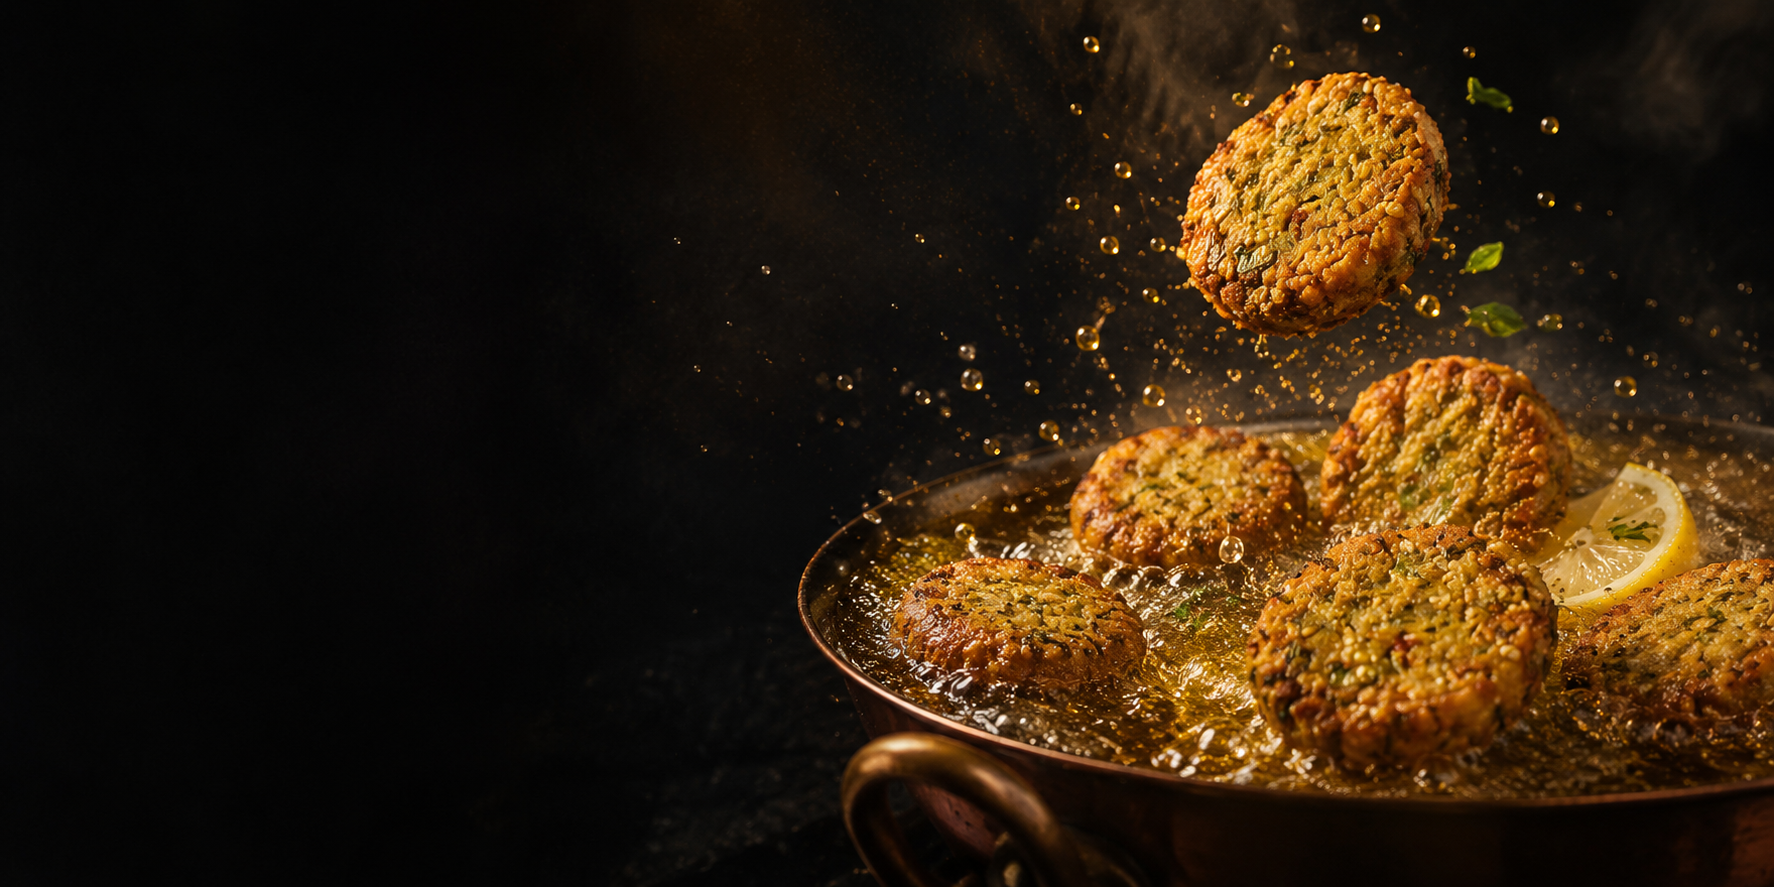
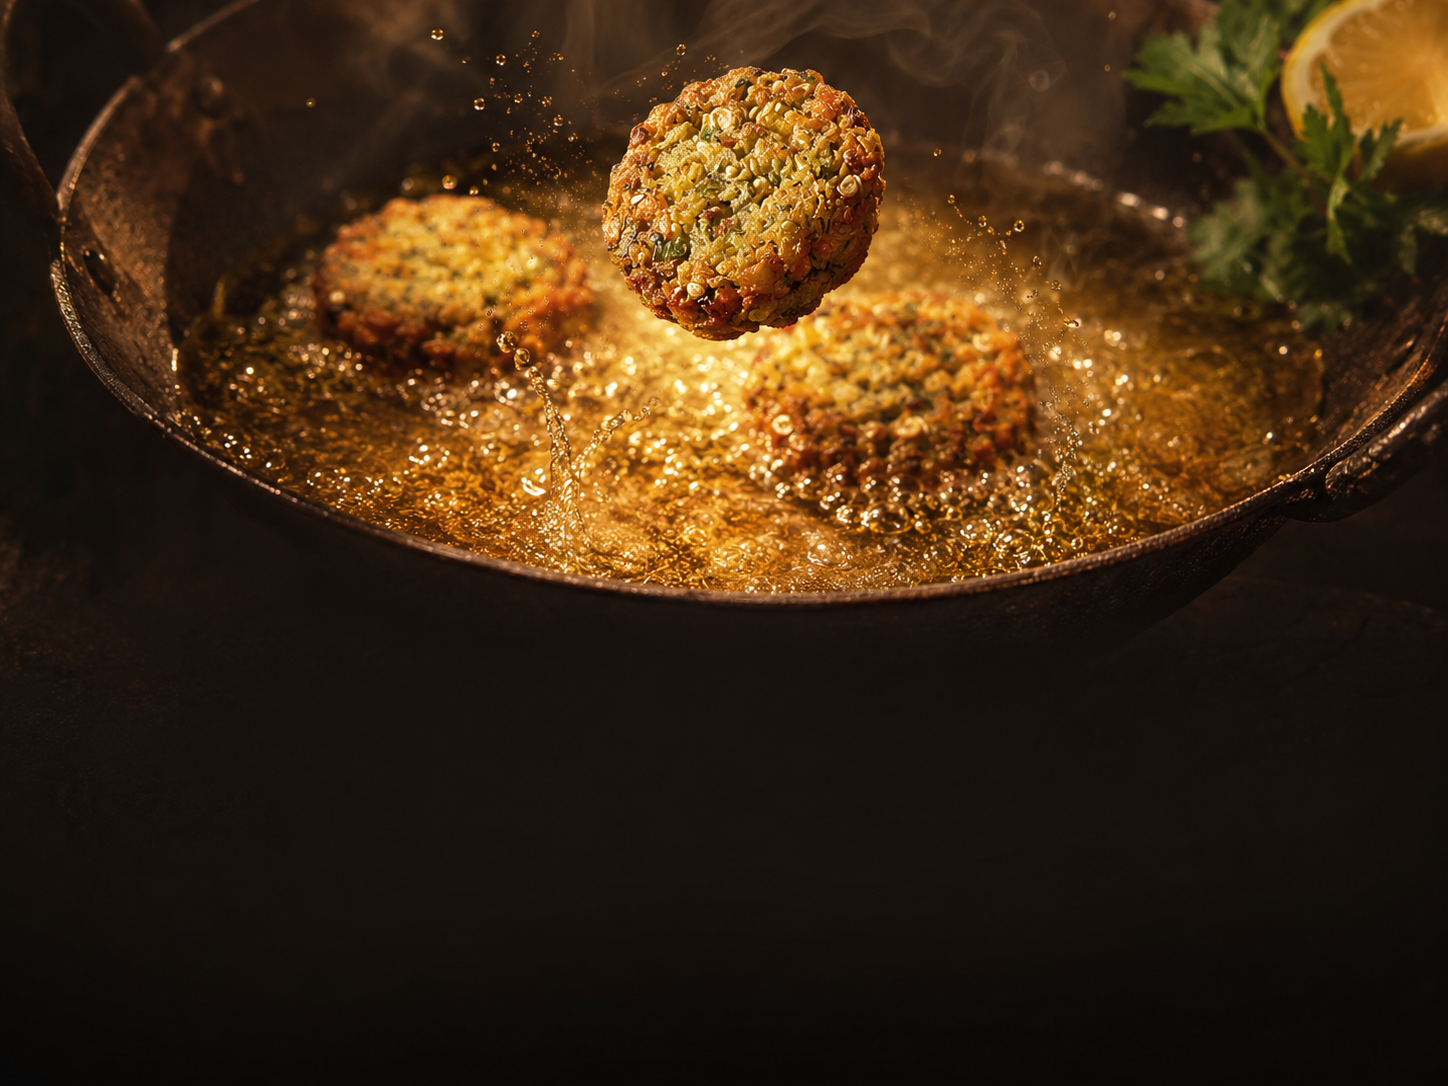
Use revised client images for Hero, Our Story, Portfolio and Why Unifayre
Routed 11 new client-supplied images out of public/images/New images
(spaces and & in folder/filenames - fragile on web) into URL-safe
locations and rewired the components:

  Hero  -> /images/veg/heroes/hero-{1,2,3}.png (3 slides, was 5)
  Story -> /images/veg/story/story-{1,2}.png
  Why   -> /images/veg/why/why-{1,2,3}.png  (3 rotations, was 2)

Portfolio: BASE PASTES & GRAVIES.png, FROZEN-TO-FRY SNACKS.png and
RETORT RICE.png overwrote the existing snacks-/gravies-/rice-portfolio
files at the same paths, so no code change for those three.
flatbreads-portfolio.png is unchanged - awaiting the revised flatbreads
banner from the client.

diff --git a/src/app/vegetarian/page.tsx b/src/app/vegetarian/page.tsx
@@ -40,24 +40,16 @@ export default function VegetarianLandingPage() {
           }}
           slides={[
             {
-              image: "/images/veg/heroes/home-hero.png",
-              alt: "Unifayre vegetarian range - chef's pass compilation",
+              image: "/images/veg/heroes/hero-1.png",
+              alt: "Unifayre hero banner one",
             },
             {
-              image: "/images/veg/categories/flatbreads-banner.png",
-              alt: "Layered Malabari paratha banner",
+              image: "/images/veg/heroes/hero-2.png",
+              alt: "Unifayre hero banner two",
             },
             {
-              image: "/images/veg/categories/snacks-banner.png",
-              alt: "Falafel mid-fry frozen-to-fry snacks banner",
-            },
-            {
-              image: "/images/veg/categories/gravies-banner.png",
-              alt: "Makhani gravy banner",
-            },
-            {
-              image: "/images/veg/categories/rice-banner.png",
-              alt: "Saffron rice in clay handi banner",
+              image: "/images/veg/heroes/hero-3.png",
+              alt: "Unifayre hero banner three",
             },
           ]}
         />
@@ -86,12 +78,12 @@ export default function VegetarianLandingPage() {
         {/* S4 - OUR STORY (plant images) */}
         <ImageFeatureSection
           imageA={{
-            src: "/plant/plant-hero.png",
-            alt: "Unifayre Mohali plant - long factory banner",
+            src: "/images/veg/story/story-1.png",
+            alt: "Unifayre Mohali plant",
           }}
           imageB={{
-            src: "/plant/plant-house.jpg",
-            alt: "Plant interior - production hall",
+            src: "/images/veg/story/story-2.png",
+            alt: "Unifayre production facility",
           }}
         />
 

diff --git a/src/app/page.tsx b/src/app/page.tsx
@@ -40,24 +40,16 @@ export default function Home() {
           }}
           slides={[
             {
-              image: "/images/veg/heroes/home-hero.png",
-              alt: "Unifayre vegetarian range - chef's pass compilation",
+              image: "/images/veg/heroes/hero-1.png",
+              alt: "Unifayre hero banner one",
             },
             {
-              image: "/images/veg/categories/flatbreads-banner.png",
-              alt: "Layered Malabari paratha banner",
+              image: "/images/veg/heroes/hero-2.png",
+              alt: "Unifayre hero banner two",
             },
             {
-              image: "/images/veg/categories/snacks-banner.png",
-              alt: "Falafel mid-fry frozen-to-fry snacks banner",
-            },
-            {
-              image: "/images/veg/categories/gravies-banner.png",
-              alt: "Makhani gravy banner",
-            },
-            {
-              image: "/images/veg/categories/rice-banner.png",
-              alt: "Saffron rice in clay handi banner",
+              image: "/images/veg/heroes/hero-3.png",
+              alt: "Unifayre hero banner three",
             },
           ]}
         />
@@ -86,12 +78,12 @@ export default function Home() {
         {/* S4 - OUR STORY (plant images) */}
         <ImageFeatureSection
           imageA={{
-            src: "/plant/plant-hero.png",
-            alt: "Unifayre Mohali plant - long factory banner",
+            src: "/images/veg/story/story-1.png",
+            alt: "Unifayre Mohali plant",
           }}
           imageB={{
-            src: "/plant/plant-house.jpg",
-            alt: "Plant interior - production hall",
+            src: "/images/veg/story/story-2.png",
+            alt: "Unifayre production facility",
           }}
         />
 

diff --git a/src/components/v2/WhyUnifayreDynamic.tsx b/src/components/v2/WhyUnifayreDynamic.tsx
@@ -26,12 +26,16 @@ type Slide = { src: string; alt: string };
 
 const SLIDES: Slide[] = [
   {
-    src: "/plant/plant-house.jpg",
-    alt: "Plant interior - production hall",
+    src: "/images/veg/why/why-1.png",
+    alt: "Unifayre plant interior - production hall",
   },
   {
-    src: "/plant/hygenic.png",
-    alt: "Hygienic clean-room interior",
+    src: "/images/veg/why/why-2.png",
+    alt: "Unifayre plant interior - clean-room line",
+  },
+  {
+    src: "/images/veg/why/why-3.png",
+    alt: "Unifayre plant interior - process detail",
   },
 ];
 
